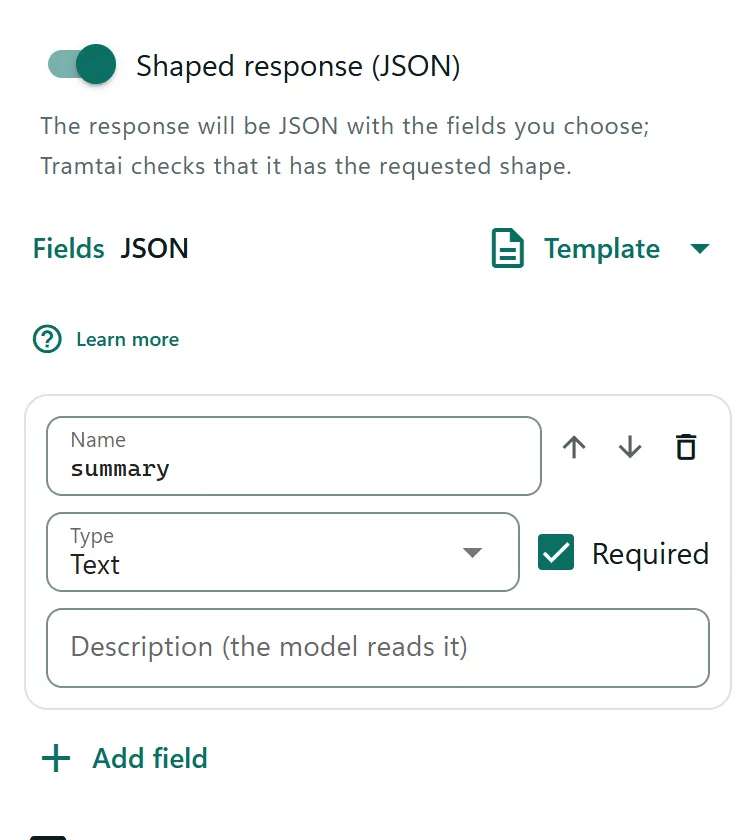
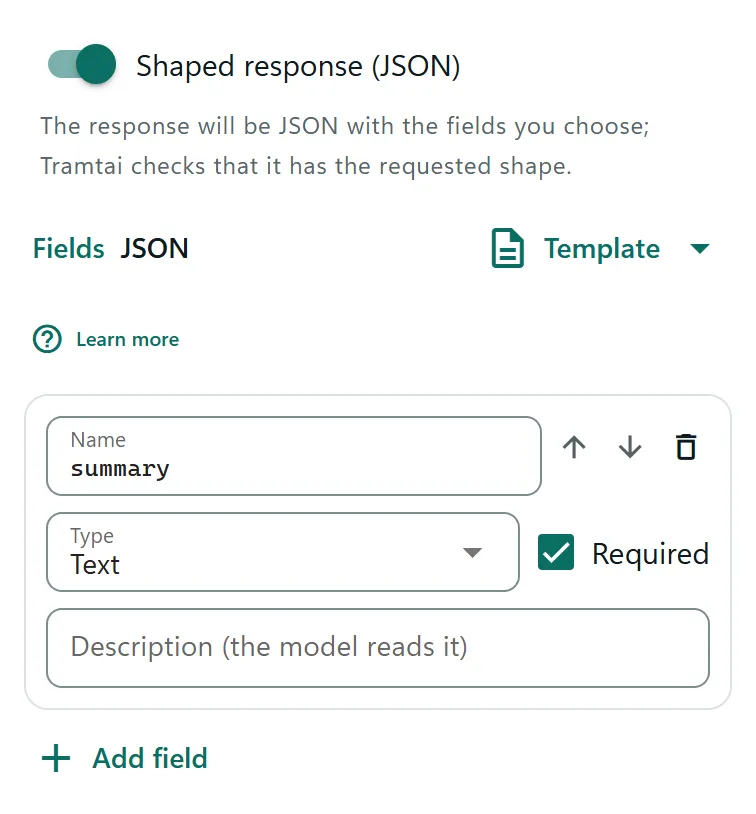
fix(sitio): ronda 1 de la Tarea 9
- FIG 10 (funcion-forma): el recorte va del interruptor a «Añadir campo», sin
  el ejemplo de respuesta ni los reintentos de debajo (ya no queda la franja
  cortada abajo).
- FIG 12 (funcion-una-api): la cabecera del diálogo y sus cuatro primeros
  campos, cerrado justo bajo el último en vez de a media frase.
- Inicio: la nota de las figuras dice que FIG 5, la del servidor, usa el
  17373 de siempre.

diff --git a/site/producto.html b/site/producto.html
@@ -265,10 +265,10 @@ curl http://127.0.0.1:17373/openai/v1/chat/completions \
             <h4><span lang="es">Respuestas con forma</span><span lang="en">Shaped responses</span></h4>
             <p><span lang="es">Elige una plantilla o arma los campos, sin escribir JSON Schema. Tramtai valida la respuesta, te dice qué campo falló y «Corregir» le pide al agente que la arregle.</span><span lang="en">Pick a template or build the fields, without writing JSON Schema. Tramtai validates the response, tells you which field failed, and “Correct” asks the agent to fix it.</span></p>
             <figure class="captura">
-              <img class="solo-claro" lang="es" src="capturas/funcion-forma-es-claro.webp" width="378" height="420" loading="lazy" decoding="async" alt="Probar con la respuesta con forma (JSON): los campos de la respuesta y el botón Plantilla">
-              <img class="solo-claro" lang="en" src="capturas/funcion-forma-en-claro.webp" width="378" height="420" loading="lazy" decoding="async" alt="The Playground with a shaped response (JSON): the response fields and the Template button">
-              <img class="solo-oscuro" lang="es" src="capturas/funcion-forma-es-oscuro.webp" width="378" height="420" loading="lazy" decoding="async" alt="Probar con la respuesta con forma (JSON): los campos de la respuesta y el botón Plantilla">
-              <img class="solo-oscuro" lang="en" src="capturas/funcion-forma-en-oscuro.webp" width="378" height="420" loading="lazy" decoding="async" alt="The Playground with a shaped response (JSON): the response fields and the Template button">
+              <img class="solo-claro" lang="es" src="capturas/funcion-forma-es-claro.webp" width="378" height="407" loading="lazy" decoding="async" alt="Probar con la respuesta con forma (JSON): los campos de la respuesta y el botón Plantilla">
+              <img class="solo-claro" lang="en" src="capturas/funcion-forma-en-claro.webp" width="378" height="407" loading="lazy" decoding="async" alt="The Playground with a shaped response (JSON): the response fields and the Template button">
+              <img class="solo-oscuro" lang="es" src="capturas/funcion-forma-es-oscuro.webp" width="378" height="407" loading="lazy" decoding="async" alt="Probar con la respuesta con forma (JSON): los campos de la respuesta y el botón Plantilla">
+              <img class="solo-oscuro" lang="en" src="capturas/funcion-forma-en-oscuro.webp" width="378" height="407" loading="lazy" decoding="async" alt="The Playground with a shaped response (JSON): the response fields and the Template button">
             </figure>
           </article>
         </div>
@@ -292,10 +292,10 @@ curl http://127.0.0.1:17373/openai/v1/chat/completions \
             <h4><span lang="es">Una API por aplicación</span><span lang="en">One API per app</span></h4>
             <p><span lang="es">Crea varias APIs con su propia clave, los modelos permitidos, instrucciones fijas y un presupuesto diario o mensual que frena las peticiones al llegar al límite. Actívalas o detenlas sin reiniciar.</span><span lang="en">Create several APIs, each with its own key, allowed models, fixed instructions and a daily or monthly budget that stops requests at the limit. Turn them on or off without restarting.</span></p>
             <figure class="captura">
-              <img class="solo-claro" lang="es" src="capturas/funcion-una-api-es-claro.webp" width="372" height="418" loading="lazy" decoding="async" alt="Nueva API: nombre, grupo, instrucciones y agente y modelo">
-              <img class="solo-claro" lang="en" src="capturas/funcion-una-api-en-claro.webp" width="372" height="418" loading="lazy" decoding="async" alt="New API: name, group, instructions, and agent and model">
-              <img class="solo-oscuro" lang="es" src="capturas/funcion-una-api-es-oscuro.webp" width="372" height="418" loading="lazy" decoding="async" alt="Nueva API: nombre, grupo, instrucciones y agente y modelo">
-              <img class="solo-oscuro" lang="en" src="capturas/funcion-una-api-en-oscuro.webp" width="372" height="418" loading="lazy" decoding="async" alt="New API: name, group, instructions, and agent and model">
+              <img class="solo-claro" lang="es" src="capturas/funcion-una-api-es-claro.webp" width="370" height="409" loading="lazy" decoding="async" alt="Nueva API: nombre, grupo, instrucciones y agente y modelo">
+              <img class="solo-claro" lang="en" src="capturas/funcion-una-api-en-claro.webp" width="370" height="409" loading="lazy" decoding="async" alt="New API: name, group, instructions, and agent and model">
+              <img class="solo-oscuro" lang="es" src="capturas/funcion-una-api-es-oscuro.webp" width="370" height="409" loading="lazy" decoding="async" alt="Nueva API: nombre, grupo, instrucciones y agente y modelo">
+              <img class="solo-oscuro" lang="en" src="capturas/funcion-una-api-en-oscuro.webp" width="370" height="409" loading="lazy" decoding="async" alt="New API: name, group, instructions, and agent and model">
             </figure>
           </article>
           <article class="tarjeta funcion">

diff --git a/web/scripts/capturas-lista.ts b/web/scripts/capturas-lista.ts
@@ -53,12 +53,16 @@ export const CAPTURAS: Captura[] = [
   { id: 'funcion-sdk', pagina: 'conectar', sitio: true, guardado: { 'tramtai.pestanaApis': 'principal' },
     zona: `[data-captura="mis-apis"] .text-weight-medium:has(+ .row .guia-url), ${GUIA}:not(:has(a.enlace))` },
   { id: 'funcion-api-propia', pagina: 'conectar', sitio: true, guardado: { 'tramtai.pestanaApis': 'principal' }, zona: `${GUIA}:has(a.enlace)` },
-  { id: 'funcion-forma', pagina: 'ejecutar', sitio: true, alto: 420, zona: `${SALIDA}, ${SALIDA} ~ *`,
+  // del interruptor a «Añadir campo»: sin el ejemplo de respuesta ni los reintentos, que van debajo
+  { id: 'funcion-forma', pagina: 'ejecutar', sitio: true, zona: `${SALIDA}, ${SALIDA} ~ :not(.q-expansion-item, .q-select)`,
     preparar: `(() => { if (!${ABRIR_OPCIONES}) return false
       if (document.querySelector('${EN_OPCIONES} .q-btn-toggle')) return true
       document.querySelector('${SALIDA} .q-toggle')?.click(); return false })()` },
   { id: 'funcion-espacios', pagina: 'espacios', sitio: true, zona: '[data-captura="espacios"]' },
-  { id: 'funcion-una-api', pagina: 'conectar', sitio: true, alto: 418, zona: '.q-dialog .q-card',
+  // el diálogo entero no cabe en una tarjeta: su cabecera y sus cuatro primeros campos (nombre, grupo, instrucciones y
+  // agente y modelo), cerrado justo bajo el último
+  { id: 'funcion-una-api', pagina: 'conectar', sitio: true,
+    zona: '.q-dialog .q-card > .q-card__section:first-child, .q-dialog form > .q-card__section > .q-field, .q-dialog form > .q-card__section > div > .q-field:nth-child(-n+2)',
     preparar: `(() => { if (document.querySelector('.q-dialog .q-card')) return true; document.querySelector('[data-recorrido="conectar.nueva"]')?.click(); return false })()` },
   // el modelo (el primero que ofrece) y, debajo, el esfuerzo: los dos selectores sueltos de la receta (el de respaldo va
   // en las opciones). Elegido el modelo, la lista se cierra con Esc y el campo pierde el foco; si no ofrece ninguno (sin

diff --git a/site/index.html b/site/index.html
@@ -207,7 +207,7 @@ brew install --cask tramtai</code></pre>
           </div>
         </figure>
       </div>
-      <p class="nota nota-figuras"><span lang="es">FIG 1 y FIG 3 llevan datos de ejemplo. Las capturas son de una Tramtai de prueba en el puerto 17388; la tuya usa el 17373 si no lo cambias, como el código.</span><span lang="en">FIG 1 and FIG 3 show sample data. The screenshots come from a test copy of Tramtai on port 17388; yours uses 17373 unless you change it, like the code.</span></p>
+      <p class="nota nota-figuras"><span lang="es">FIG 1 y FIG 3 llevan datos de ejemplo. Las capturas son de una Tramtai de prueba en el puerto 17388, salvo FIG 5, la del servidor, que usa el 17373 de siempre; la tuya usa el 17373 si no lo cambias, como el código.</span><span lang="en">FIG 1 and FIG 3 show sample data. The screenshots come from a test copy of Tramtai on port 17388, except FIG 5, the server one, which uses the usual 17373; yours uses 17373 unless you change it, like the code.</span></p>
     </div>
   </section>
 
